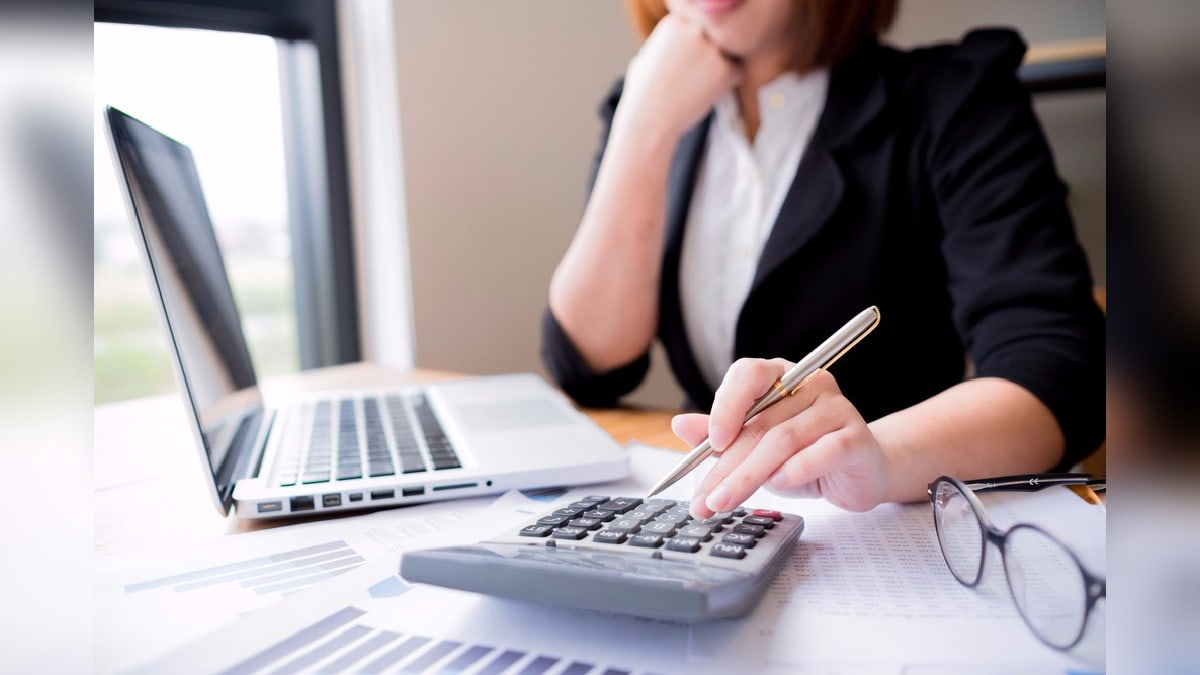
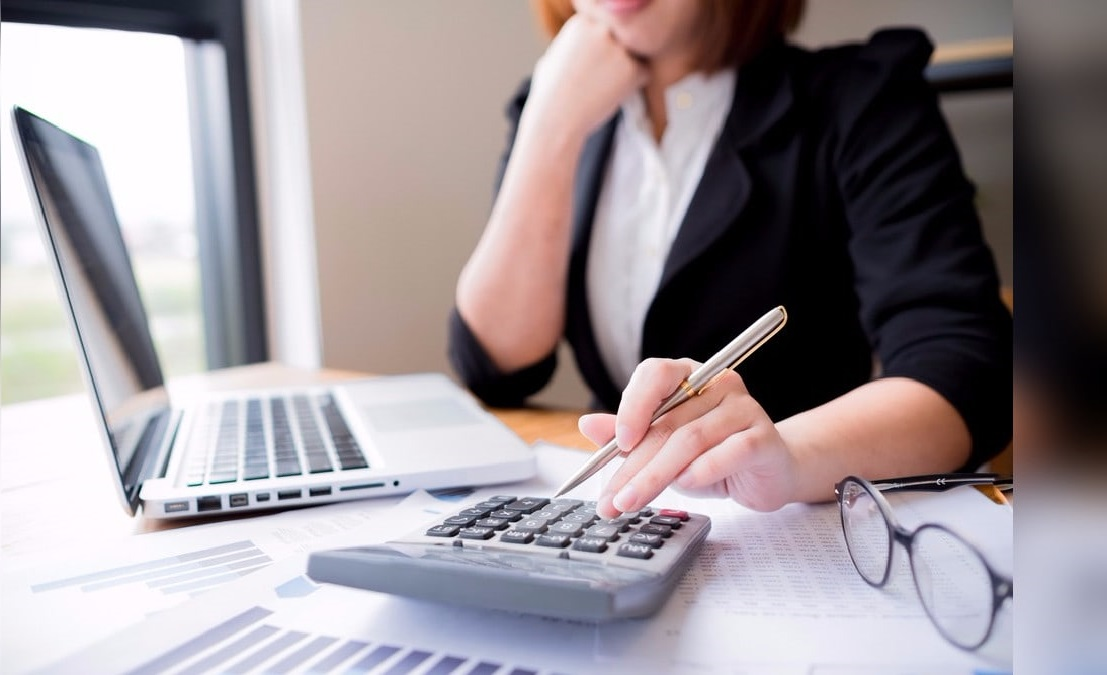
image

diff --git a/tailwind.config.js b/tailwind.config.js
@@ -166,7 +166,7 @@ module.exports = {
         '96': '24rem',
       },
       backgroundImage: {
-        'portada': "url('/src/assets/images/portada_3.jpg')",
+        'portada': "url('/src/assets/images/portada_1.jpg')",
       },
       animation: {
         'in': 'fade-in 500ms',
